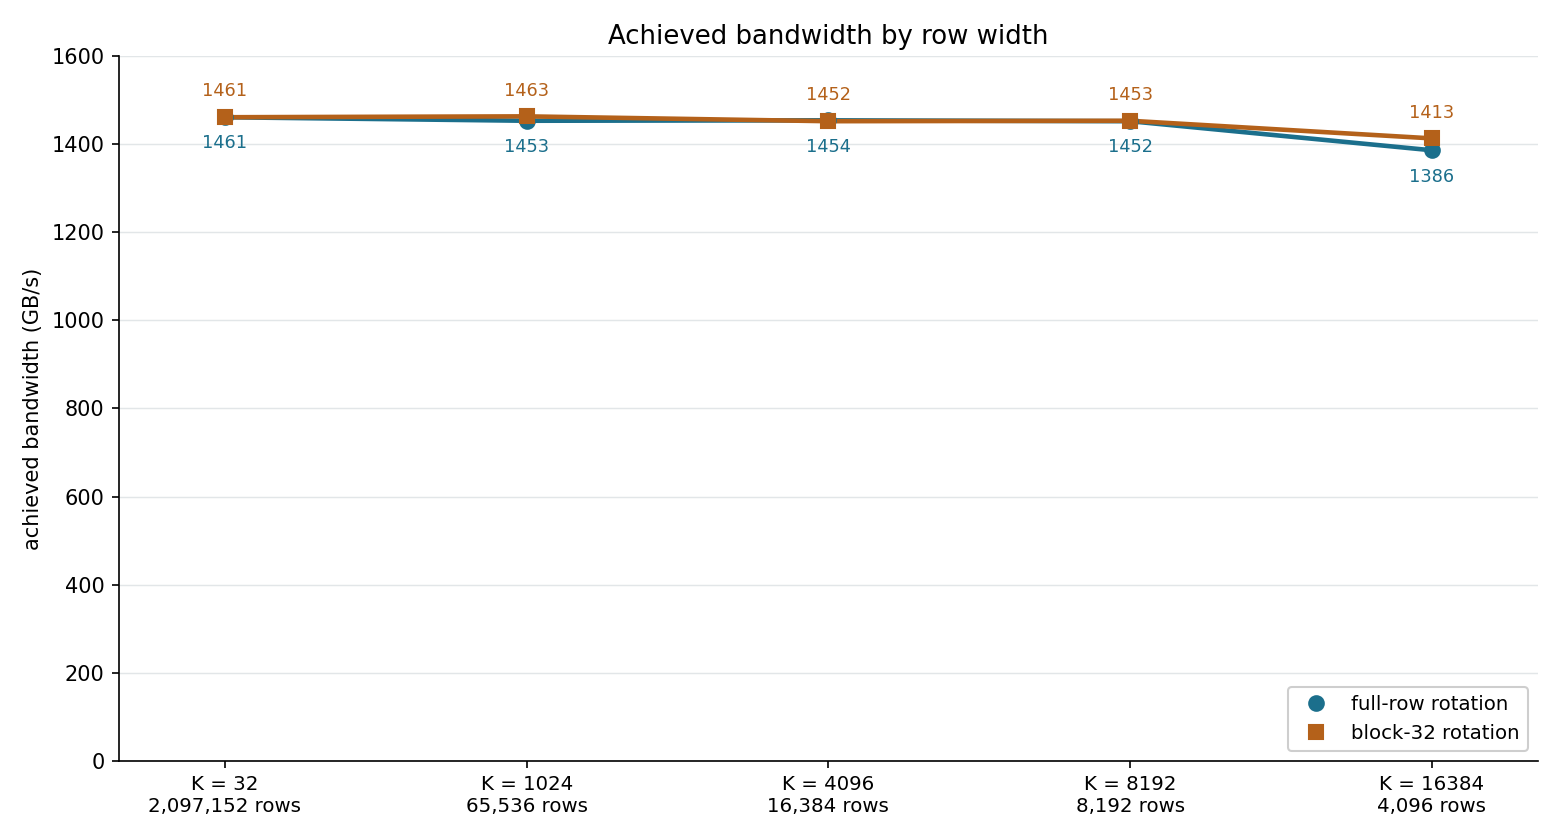
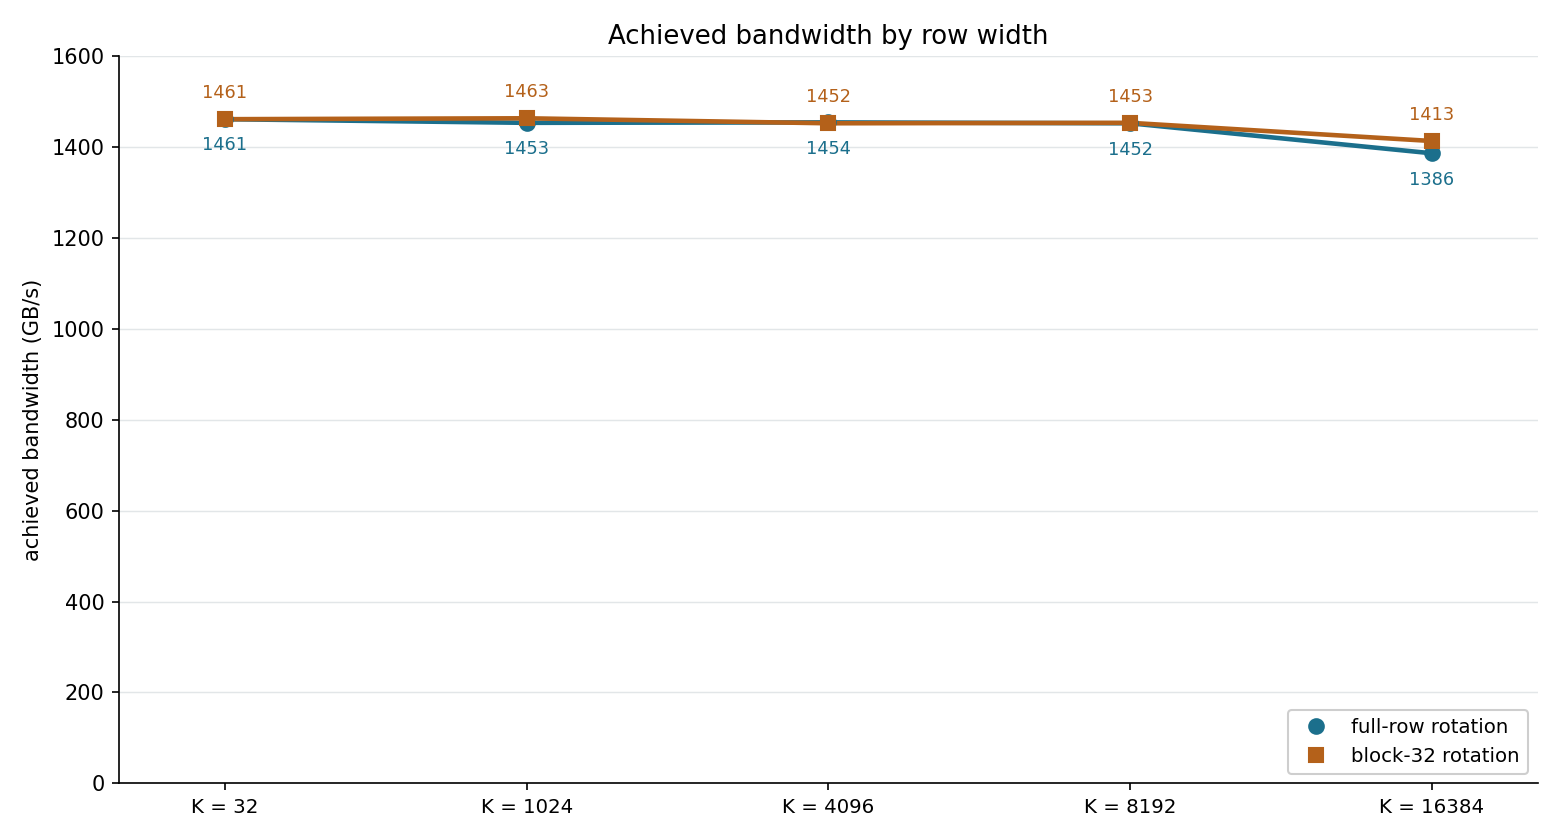
fused_hadamard_quant_a5: plain K ticks on the bandwidth figure
Drops the per-width row count from the tick labels. Rows x K is held
constant across the sweep, which is what makes the widths comparable,
and the per-width counts are in the CSVs for anyone who wants them.

Claude-Session: https://claude.ai/code/session_01HZVm8471pTYSqnDhjM7k1g

diff --git a/fused_hadamard_quant_a5/plot_bandwidth_both_a5.py b/fused_hadamard_quant_a5/plot_bandwidth_both_a5.py
@@ -7,8 +7,8 @@ row grows: the transform is hidden under the DMA at every width, so the curve
 is flat rather than sloping.
 
 Rows x K is held constant across the sweep, so every point moves the same
-number of elements and the widths are directly comparable. The tick shows both
-sizes.
+number of elements and the widths are directly comparable; the per-width row
+counts are in the CSVs.
 
 The y axis is zero-based on purpose. Every point sits between 1382 and 1450
 GB/s, and the gap between the kernels is a few per cent; a cropped axis turns
@@ -90,15 +90,7 @@ def main():
     # ~1.4 TB/s across a 16x range of width is the actual finding.
     ax.set_ylim(0, 1600)
     ax.set_xticks(list(pos.values()))
-    # the batch is the size that actually changes per point: rows x K is held
-    # constant across the sweep, which is what makes the widths comparable
-    def batch_of(k):
-        r = full.get(k) or b32.get(k)
-        return int(r["batch"])
-
-    ax.set_xticklabels(
-        [f"K = {k}\n{batch_of(k):,} rows" for k in widths], fontsize=9.5
-    )
+    ax.set_xticklabels([f"K = {k}" for k in widths], fontsize=9.5)
     ax.set_xlim(-0.35, len(widths) - 0.65)
     ax.set_ylabel("achieved bandwidth (GB/s)")
     ax.set_title("Achieved bandwidth by row width", fontsize=12.5)
